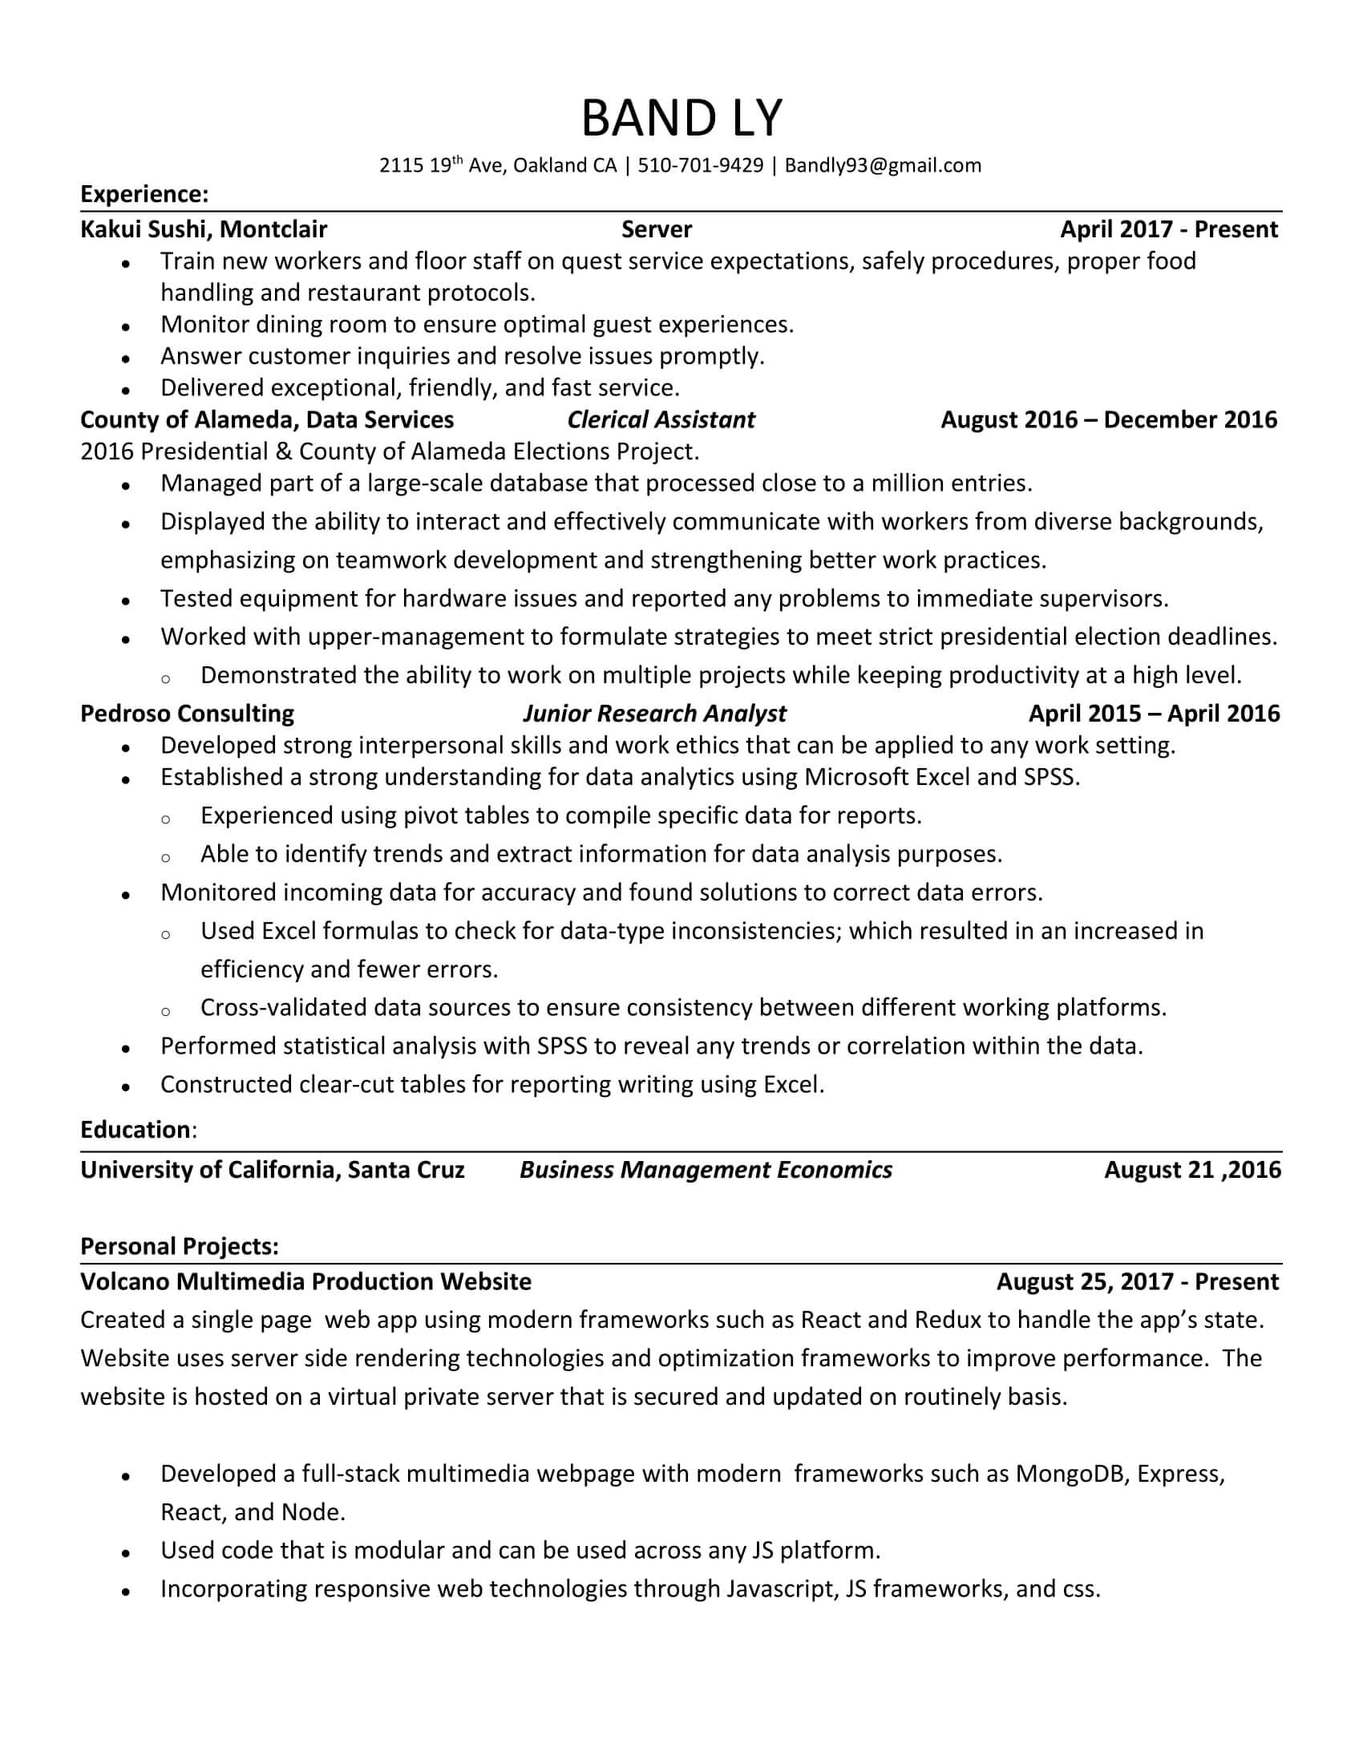
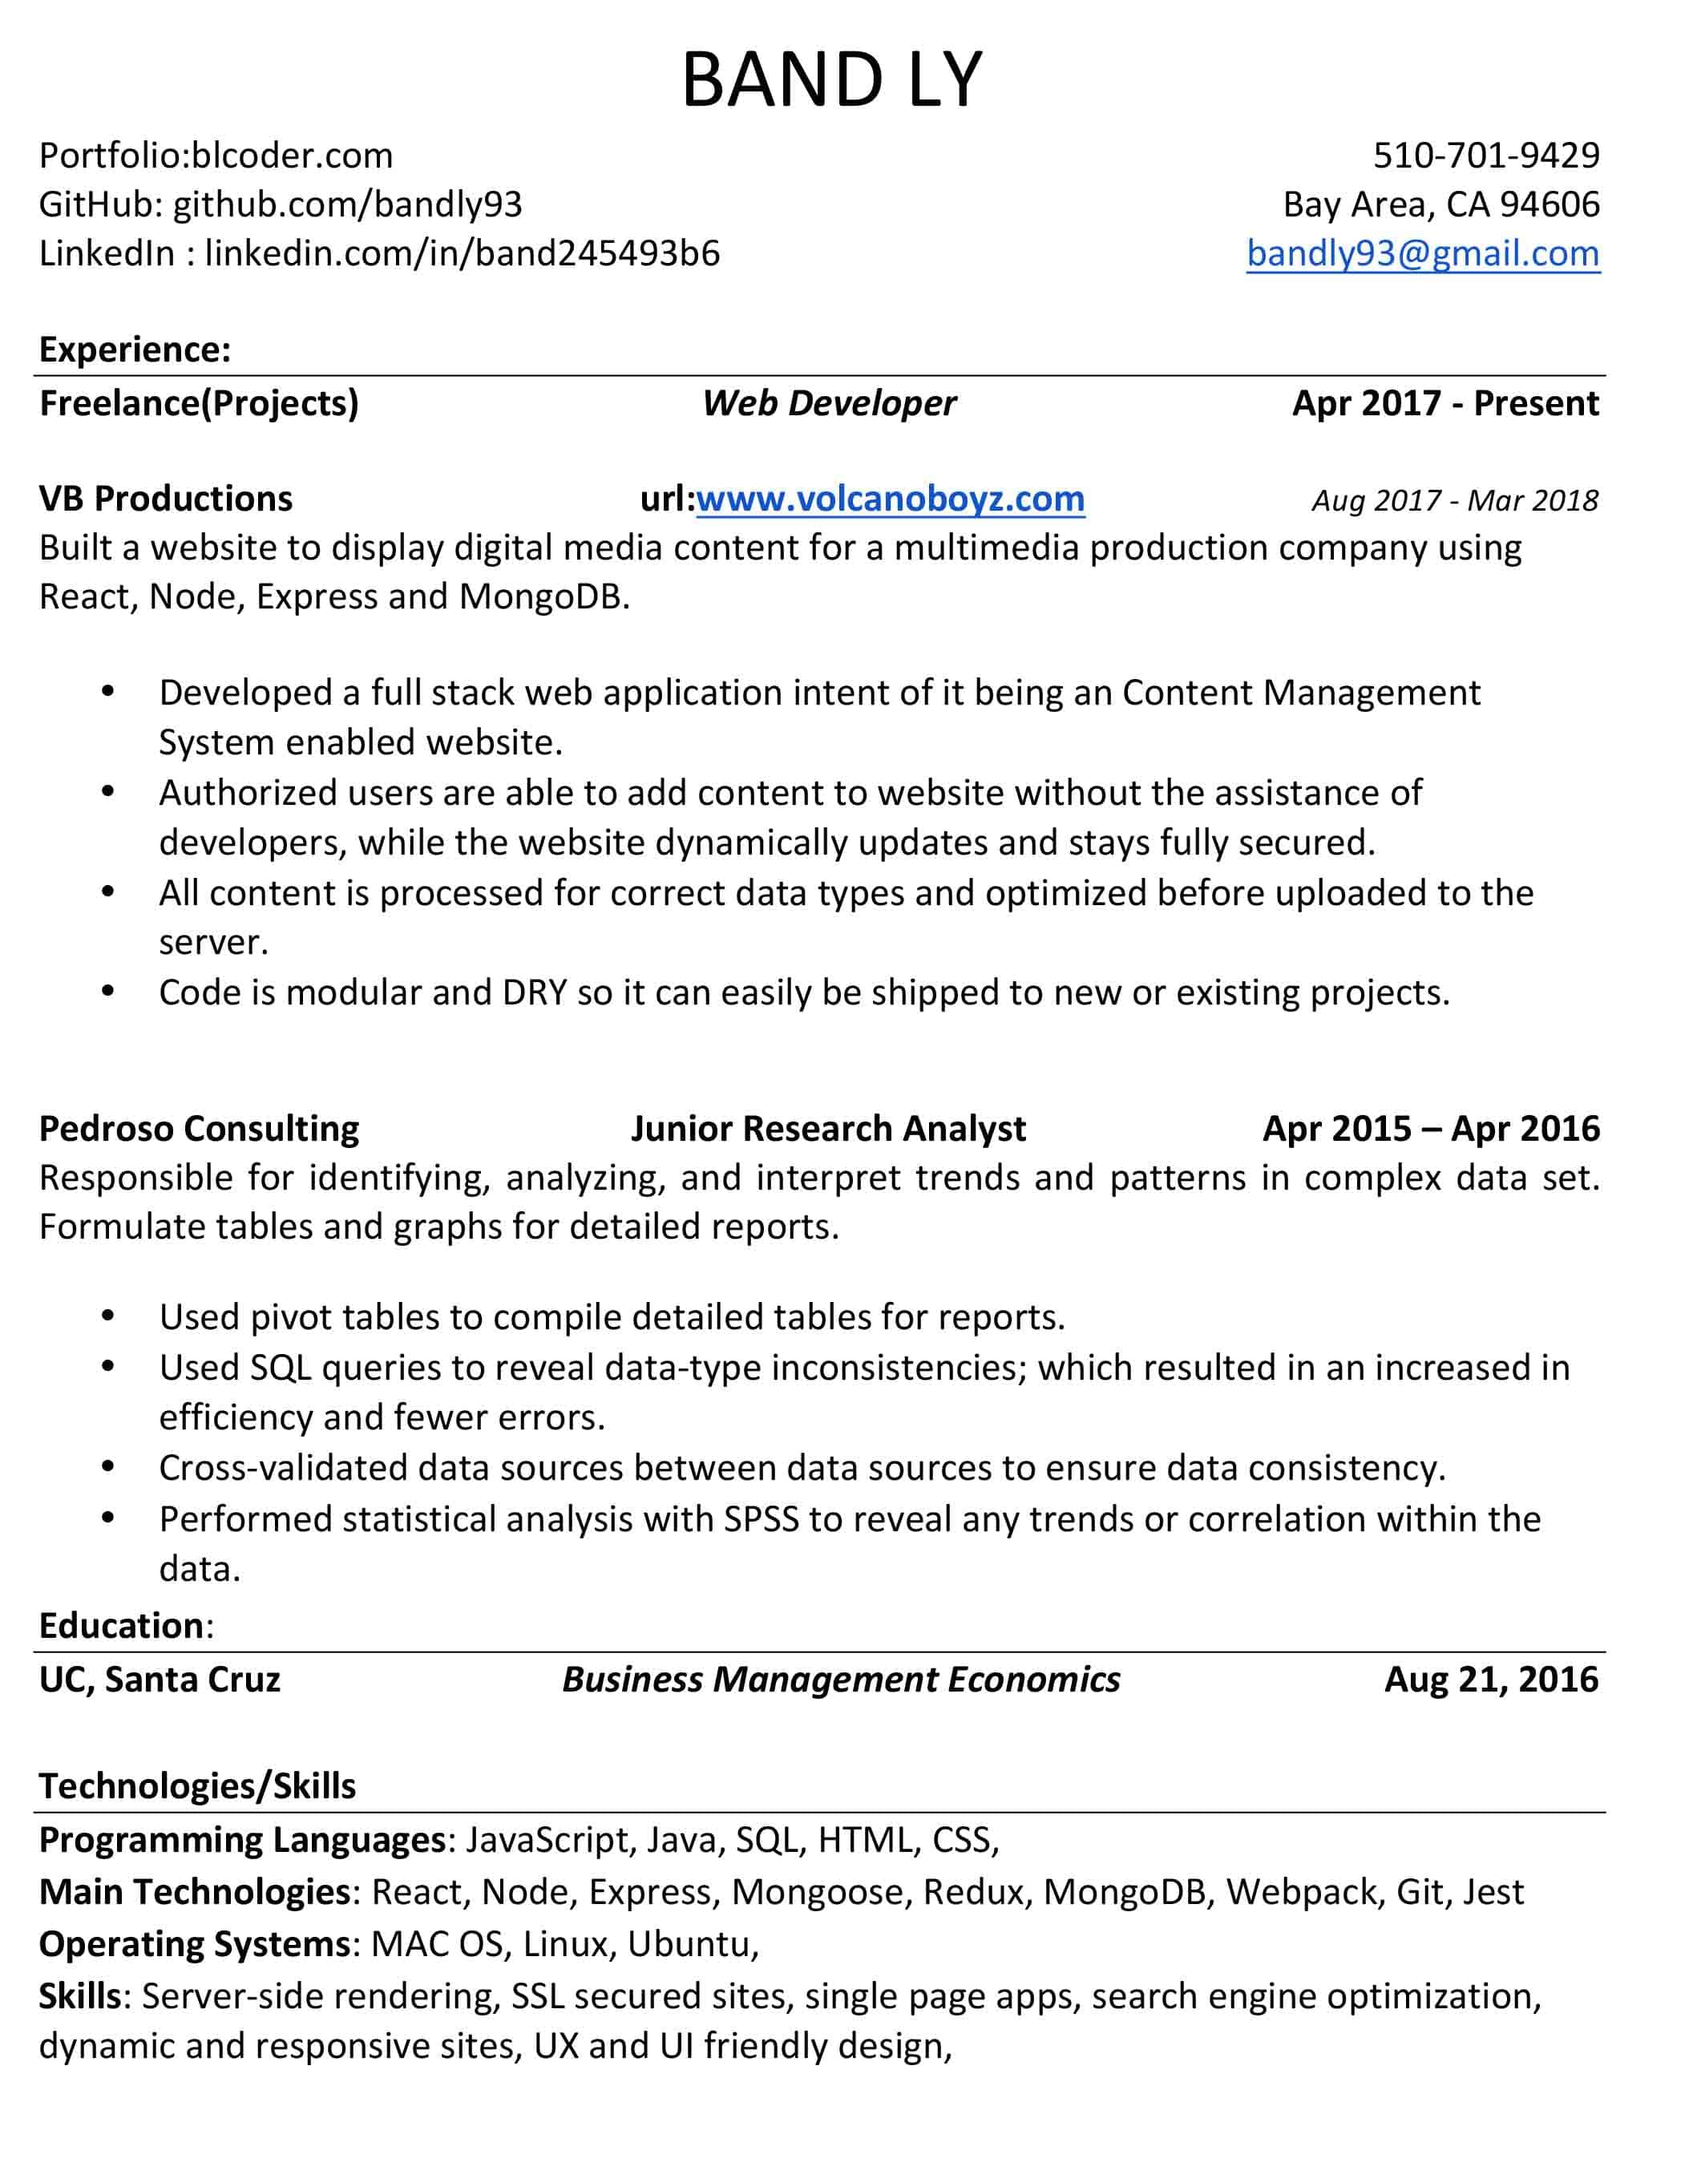
update resume

Changed region(s): [[0.0, 0.0, 0.9353, 0.9582]]

diff --git a/src/shared/App.js b/src/shared/App.js
@@ -7,8 +7,8 @@ import { withRouter } from 'react-router-dom';
 import ReactGA from 'react-ga';
 import {GOOGLE_ANALYTICS} from '../../config.json';
 
-ReactGA.initialize(GOOGLE_ANALYTICS);
-ReactGA.pageview(window.location.pathname + window.location.search);
+//ReactGA.initialize(GOOGLE_ANALYTICS);
+//ReactGA.pageview(window.location.pathname + window.location.search);
 class App extends Component{
 		
 	componentDidMount(){

diff --git a/src/shared/views/ProfDocs.js b/src/shared/views/ProfDocs.js
@@ -8,7 +8,7 @@ class ProfDocs extends Component{
 		return<Fragment>
 			<img
 				className = 'resume' 
-				src = '../images/Blank.svg'
+				src = '../images/resume.jpg'
 			/>
 		</Fragment>
 	}	

diff --git a/src/shared/style.css b/src/shared/style.css
@@ -176,7 +176,7 @@ a:hover{
 }
 
 .resume{	
-	background-image:url('./images/blank.svg');	
+	background-image:url('./images/resume.jpg');	
 	border:1px solid black;
 }
 
